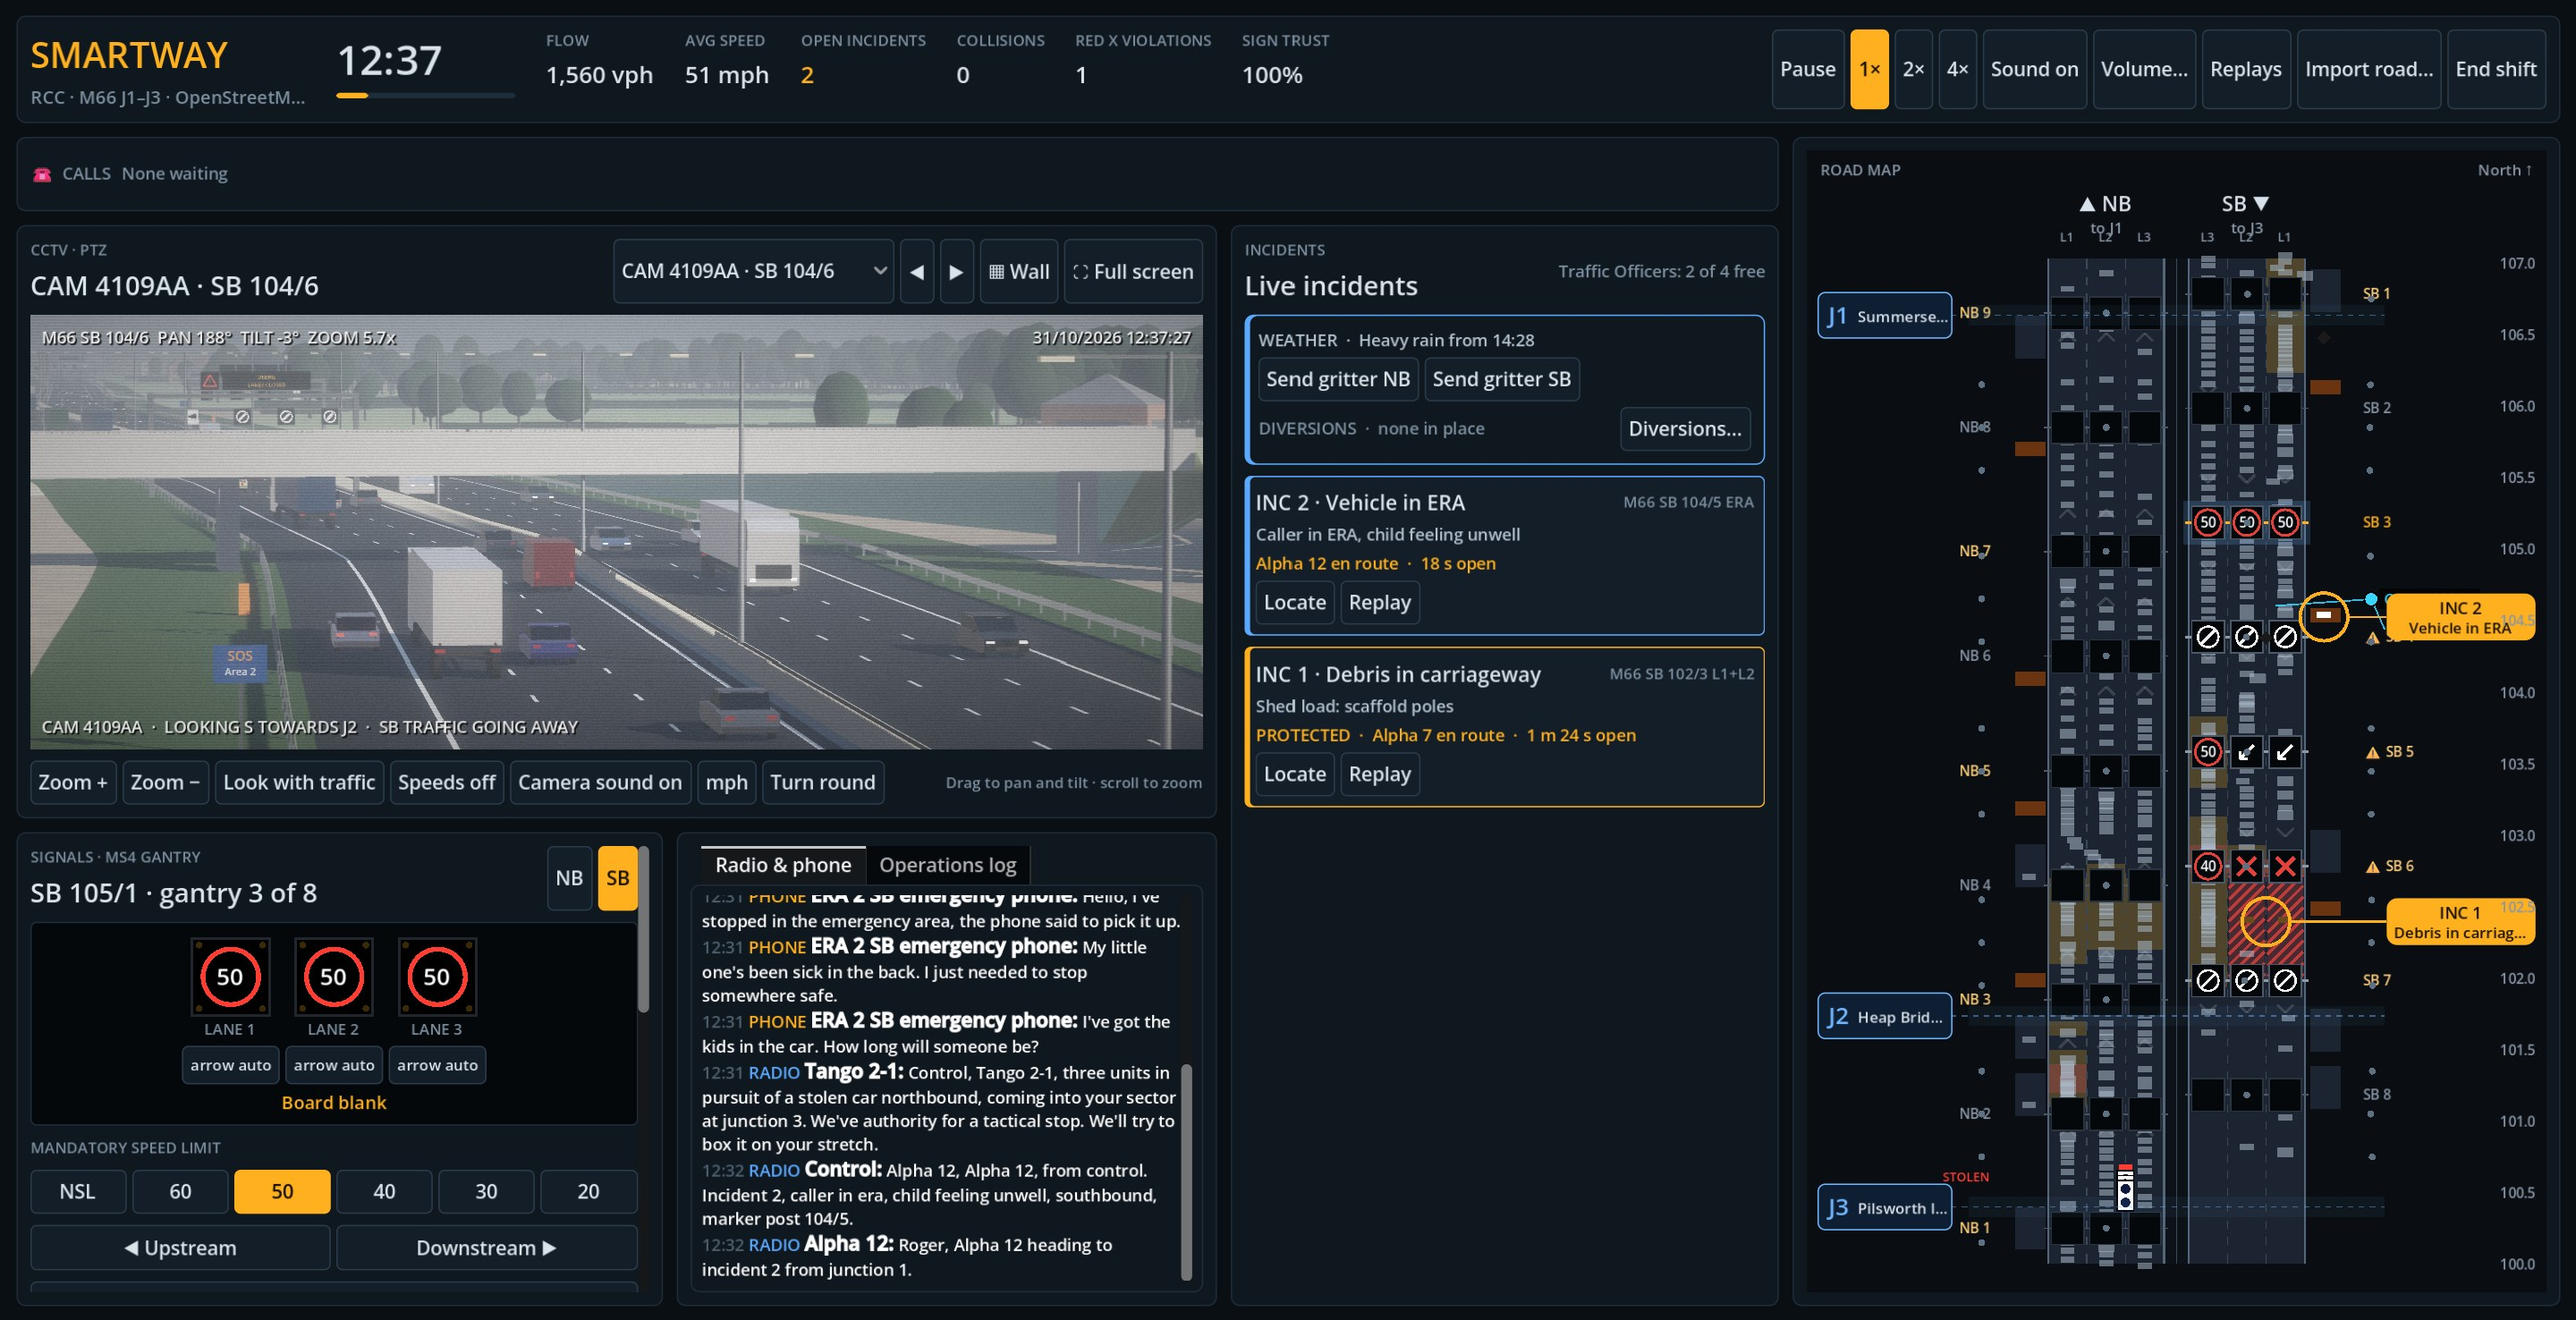
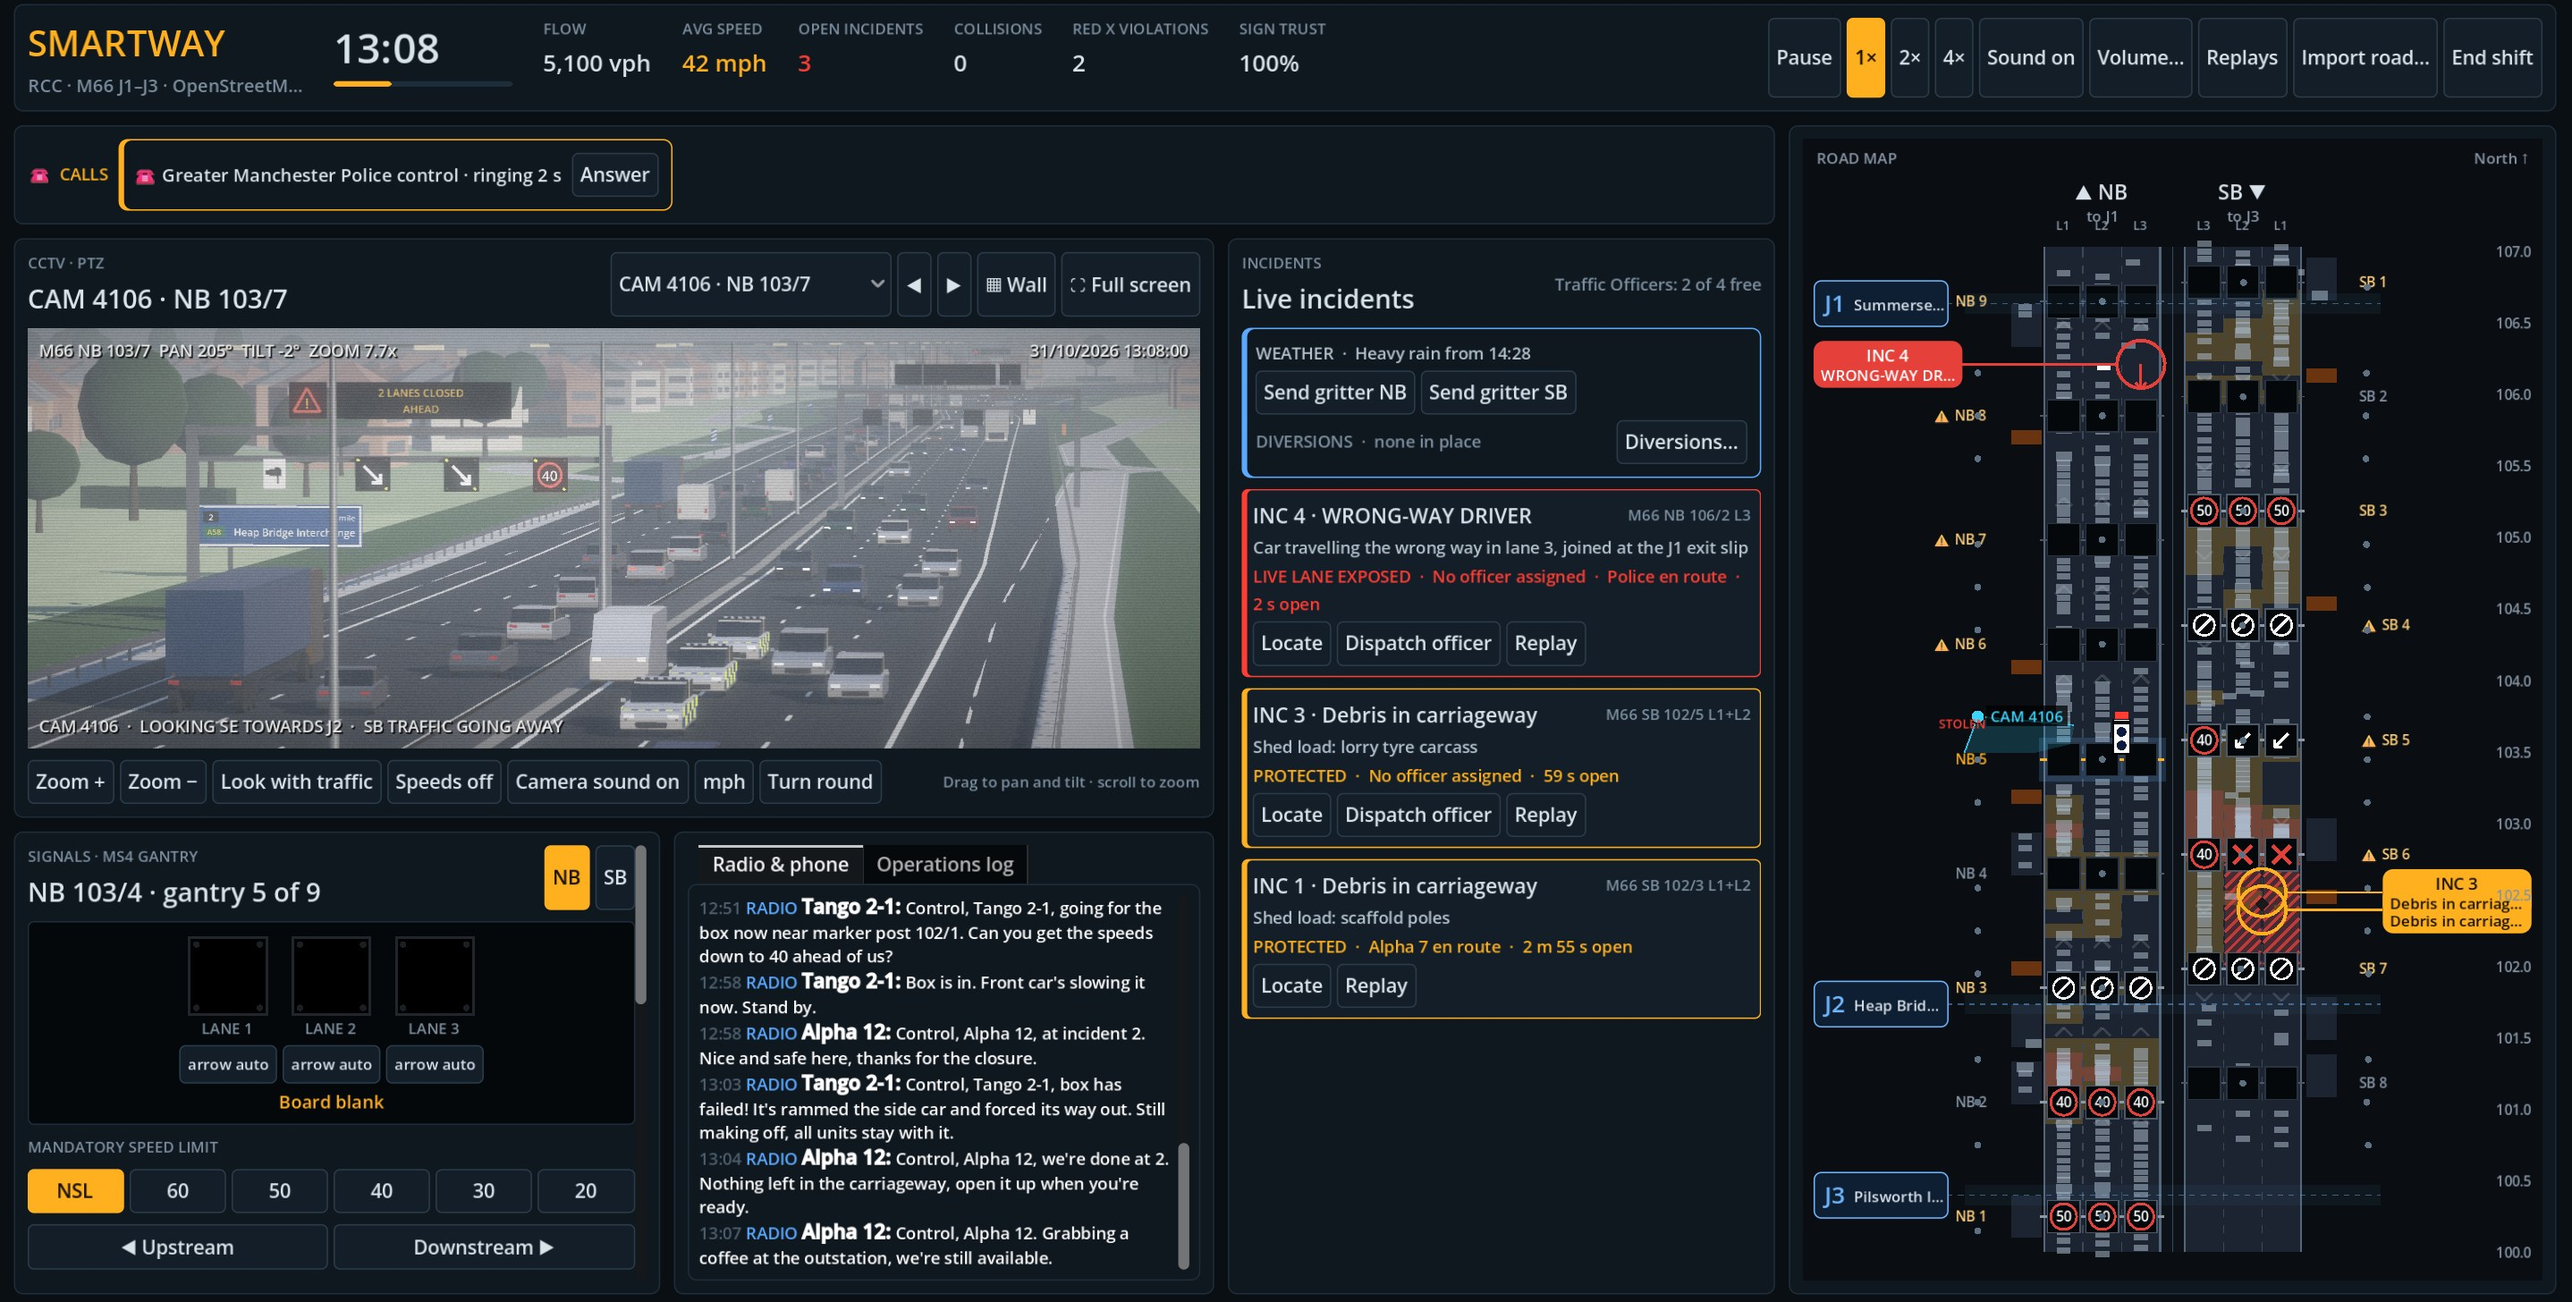
Use busier desk screenshot
Claude-Session: https://claude.ai/code/session_01E9XoDVsgJ79mnXHkQuLLVF

diff --git a/index.html b/index.html
@@ -43,7 +43,7 @@
   <div class="shots">
     <figure class="shot"><a href="shots/full/cctv.jpg" class="zoom"><img src="shots/cctv.jpg" alt="CCTV camera view of traffic on the M66" loading="lazy"></a><figcaption>Pan, tilt and zoom the roadside CCTV</figcaption></figure>
     <figure class="shot"><a href="shots/full/wall.jpg" class="zoom"><img src="shots/wall.jpg" alt="Camera wall with six live CCTV feeds following incidents and a police pursuit" loading="lazy"></a><figcaption>Camera wall that follows live incidents</figcaption></figure>
-    <figure class="shot"><a href="shots/full/desk.jpg" class="zoom"><img src="shots/desk.jpg" alt="Full control desk: CCTV, live incidents, gantry signals, radio log and the motorway map down the right" loading="lazy"></a><figcaption>Set signals and run incidents from the desk</figcaption></figure>
+    <figure class="shot"><a href="shots/full/desk.jpg" class="zoom"><img src="shots/desk.jpg" alt="Full control desk: CCTV, live incidents, gantry signals, radio log and the motorway map down the right" loading="lazy"></a><figcaption>Wrong-way driver, debris and a failed police box, all at once</figcaption></figure>
     <figure class="shot"><a href="shots/full/fog.jpg" class="zoom"><img src="shots/fog.jpg" alt="Thick fog under a gantry on the M66" loading="lazy"></a><figcaption>Fog, ice, rain and night shifts</figcaption></figure>
   </div>
 </div></section>
